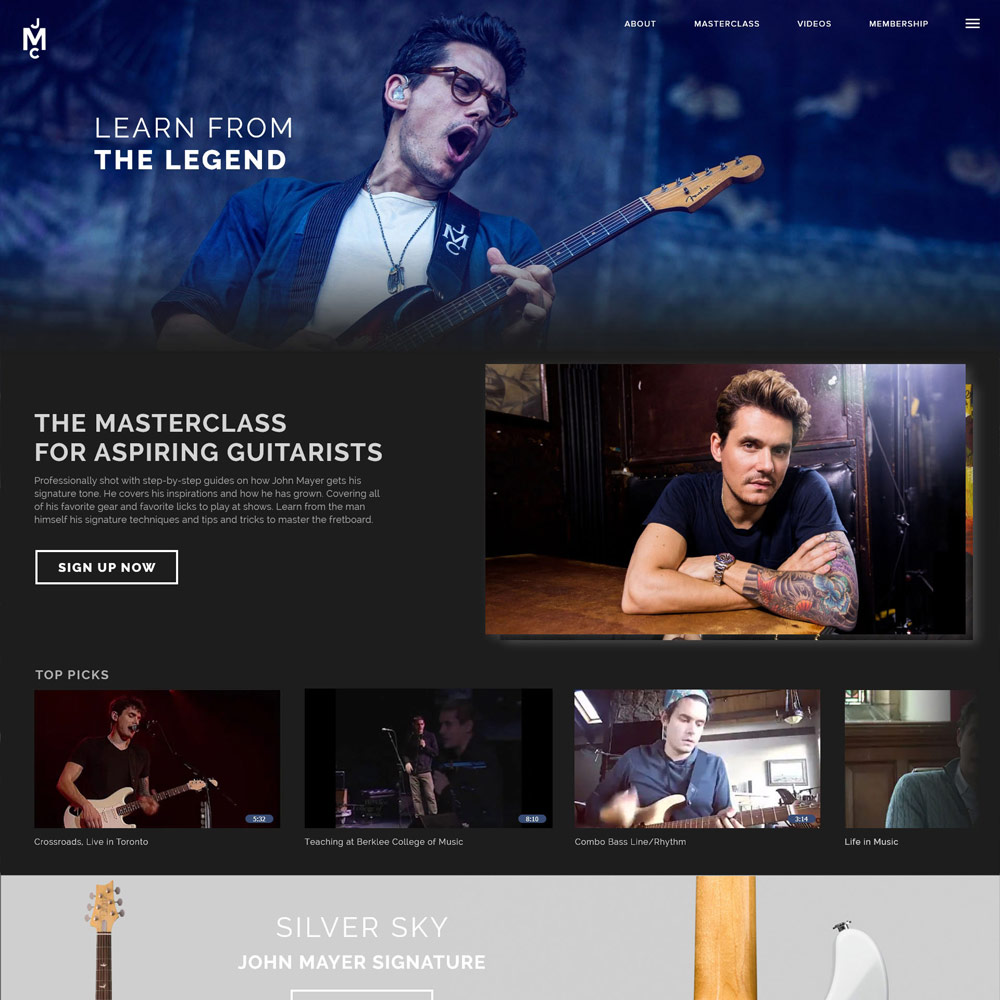
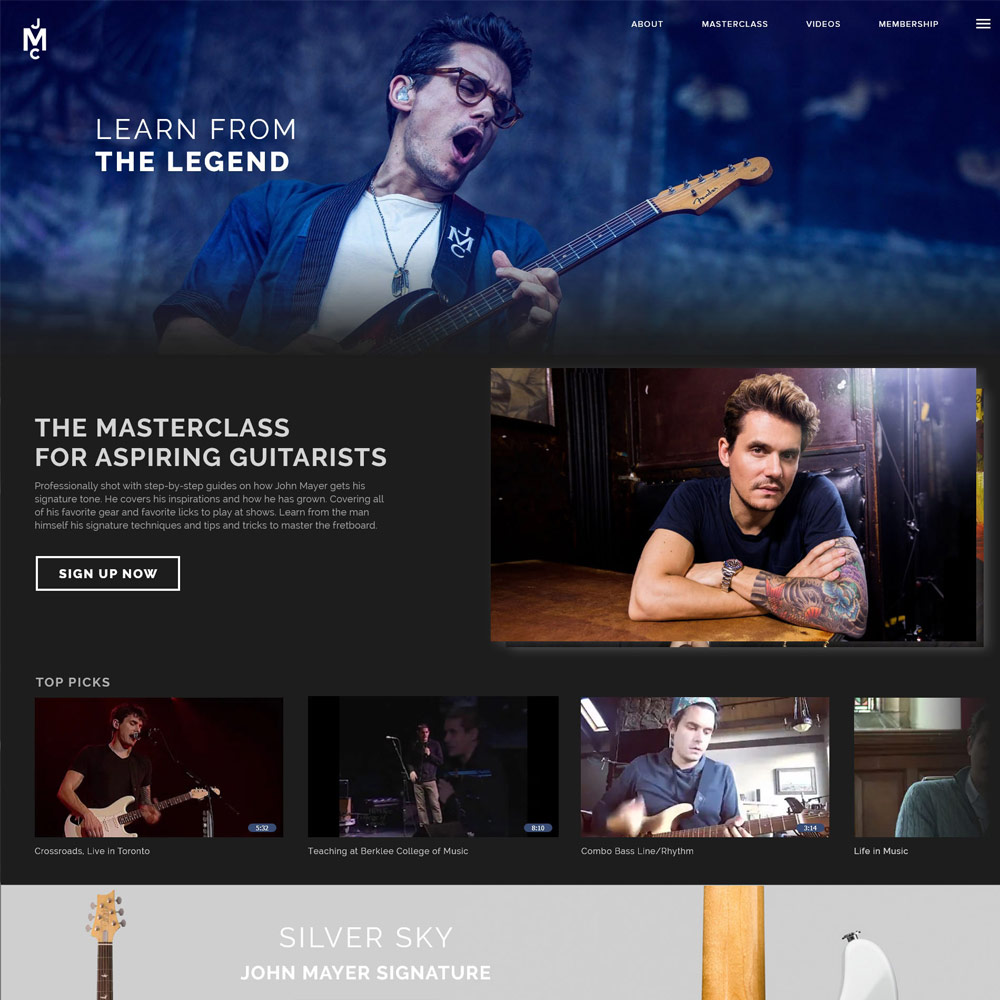
coverflow

diff --git a/src/pages/index.js b/src/pages/index.js
@@ -2,6 +2,7 @@ import React, { useState } from "react"
 import { Link } from "gatsby"
 import Layout from "../components/layout"
 import Footer from "../components/footer"
+import SwiperCore, { EffectCoverflow, Navigation, Pagination, Scrollbar, A11y } from "swiper"
 import { Swiper, SwiperSlide } from "swiper/react"
 import Particles from "react-particles-js"
 import YouTube from "react-youtube"
@@ -15,11 +16,12 @@ import "swiper/swiper.scss"
 import "swiper/components/navigation/navigation.scss"
 import "swiper/components/pagination/pagination.scss"
 import "swiper/components/scrollbar/scrollbar.scss"
+import "swiper/components/effect-coverflow/effect-coverflow.min.css"
 
 import "../styles/global.scss"
 import { CDN } from "../components/constants"
 
-// https: SwiperCore.use([Navigation, Pagination, Scrollbar, A11y])
+SwiperCore.use([EffectCoverflow,Navigation, Pagination, Scrollbar, A11y])
 
 export default function Home() {
 	const [lightboxController, setLightboxController] = useState({
@@ -81,17 +83,26 @@ export default function Home() {
 				</Box>
 				<Swiper
 				spaceBetween={15}
-				slidesPerView={1}
+				slidesPerView={3}
 				navigation={false}
 				pagination={{ clickable: true }}
 				onSwiper={swiper => console.log(swiper)}
 				onSlideChange={() => console.log("slide change")}
+				// effect={'coverflow'}
+				// centeredSlides={true}
+				coverflowEffect={{
+				  "rotate": 50,
+				  "stretch": 0,
+				  "depth": 100,
+				  "modifier": 1,
+				  "slideShadows": false
+				}}
 				breakpoints={{
 					576: { slidesPerView: 2 },
 					768: { slidesPerView: 2 },
 					992: { slidesPerView: 2 },
 					1200: {
-					slidesPerView: 2,
+					slidesPerView: 3,
 					slidesPerColumnFill: "row",
 					},
 				}}
@@ -191,18 +202,27 @@ export default function Home() {
 				<h2 data-sal="slide-down"	data-sal-duration="300"data-sal-delay="300" data-sal-easing="ease">Designs</h2>
 				</Box>
 				<Swiper
-				spaceBetween={15}
-				slidesPerView={1}
+				spaceBetween={0}
+				slidesPerView={3}
 				navigation={false}
+				initialSlide={1}
 				pagination={{ clickable: true }}
 				onSwiper={swiper => console.log(swiper)}
-				onSlideChange={() => console.log("slide change")}
+				effect={'coverflow'}
+				centeredSlides={true}
+				coverflowEffect={{
+				  "rotate": 50,
+				  "stretch": 0,
+				  "depth": 100,
+				  "modifier": 1,
+				  "slideShadows": false
+				}}
 				breakpoints={{
 					576: { slidesPerView: 2 },
 					768: { slidesPerView: 2 },
 					992: { slidesPerView: 2 },
 					1200: {
-					slidesPerView: 2,
+					slidesPerView: 3,
 					slidesPerColumnFill: "row",
 					},
 				}}
@@ -269,18 +289,28 @@ export default function Home() {
 				</div>
 				</Box>
 				<Swiper
-					spaceBetween={15}
-					slidesPerView={2}
+					spaceBetween={0}
+					slidesPerView={3}
 					navigation={false}
 					onSwiper={swiper => console.log(swiper)}
 					onSlideChange={() => console.log("slide change")}
 					pagination={{ clickable: true }}
+					initialSlide={1}
+					effect={'coverflow'}
+					centeredSlides={true}
+					coverflowEffect={{
+					  "rotate": 50,
+					  "stretch": 0,
+					  "depth": 100,
+					  "modifier": 1,
+					  "slideShadows": false
+					}}
 					breakpoints={{
 						576: { slidesPerView: 1 },
 						768: { slidesPerView: 1 },
 						992: { slidesPerView: 1 },
 						1200: {
-						slidesPerView: 2,
+						slidesPerView: 3,
 						slidesPerColumnFill: "row",
 						},
 					}}

diff --git a/src/styles/swiper.scss b/src/styles/swiper.scss
@@ -57,10 +57,6 @@ $position-color: #aaa;
 		}
 	}
 
-	&:first-child:hover {
-		margin: 0 40px 0 0 ;
-	}
-
 	img {
 		position: relative;
 		max-width: 100%;
